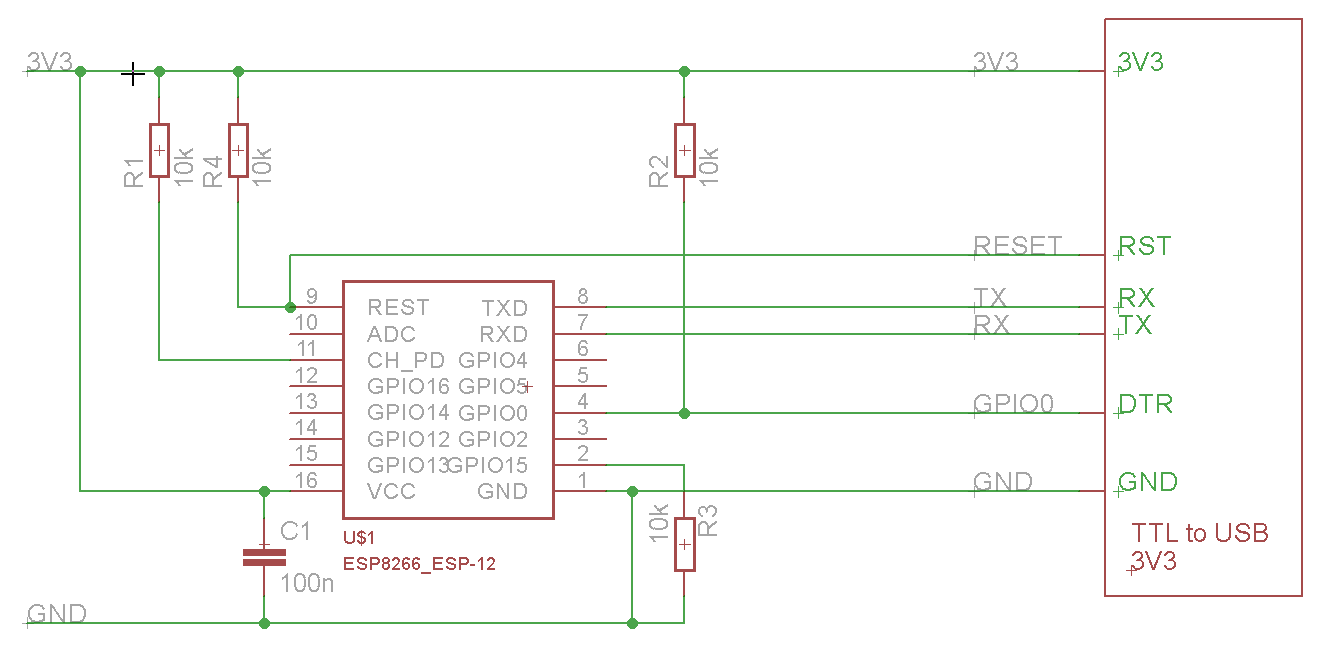
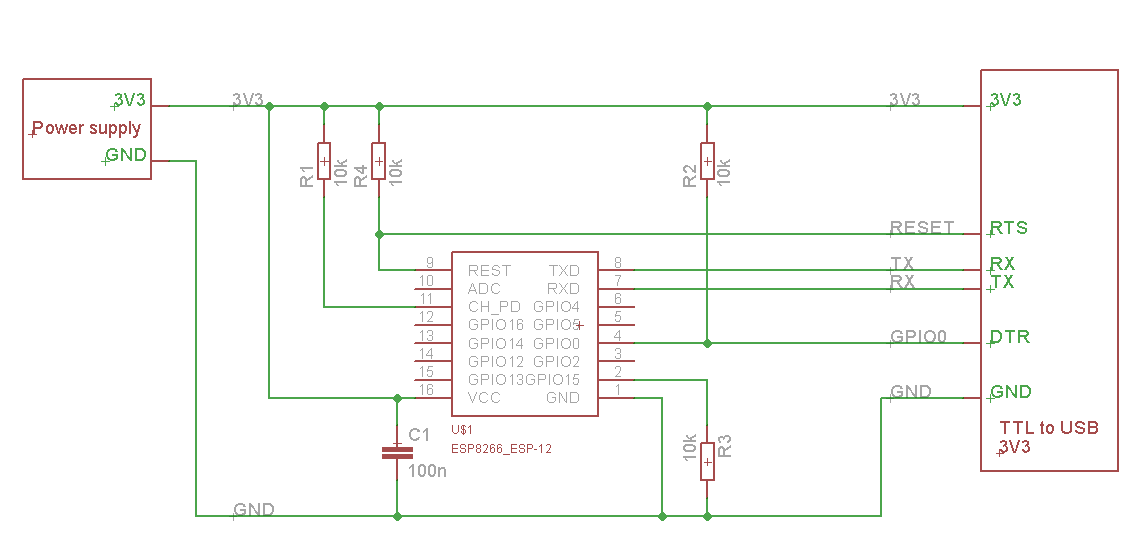
add current note fix image

Changed region(s): [[0.0, 0.0, 0.985, 0.9732], [0.2463, 0.2433, 0.3694, 0.3345], [0.5849, 0.2433, 0.6464, 0.3345]]

diff --git a/README.md b/README.md
@@ -201,6 +201,13 @@ Libraries that don't rely on low-level access to AVR registers should work well.
 Pick the correct serial port.
 You need to put ESP8266 into bootloader mode before uploading code.
 
+#### Power Supply ####
+
+For stable use of the ESP8266 a power supply with 3V3 and >= 250mA is required.
+
+* Note
+ - using Power from USB to Serial is may unstable, they not deliver enough current. 
+ 
 #### Minimal hardware Setup for Bootloading and usage ####
 
 ESPxx Hardware
